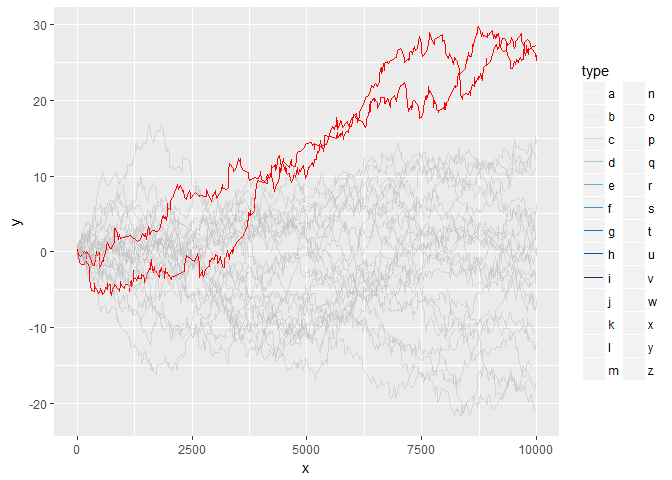
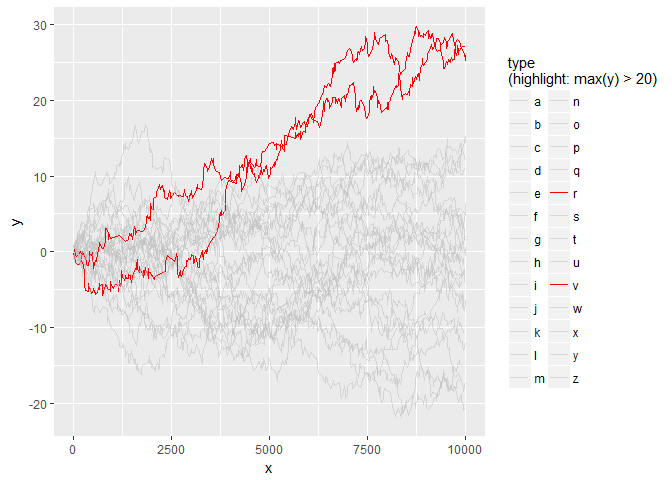
improve legend

diff --git a/README.md b/README.md
@@ -51,9 +51,6 @@ library(gghighlight)
 ggplot(d) +
   geom_line(aes(x, y, group = type, colour = type)) +
   scale_highlight_colour(max(y) > 20)
-#> Adding missing grouping variables: `group`
-#> Warning in RColorBrewer::brewer.pal(n, pal): n too large, allowed maximum for palette Blues is 9
-#> Returning the palette you asked for with that many colors
 ```
 
 ![](README-gghighlight-1.png)
